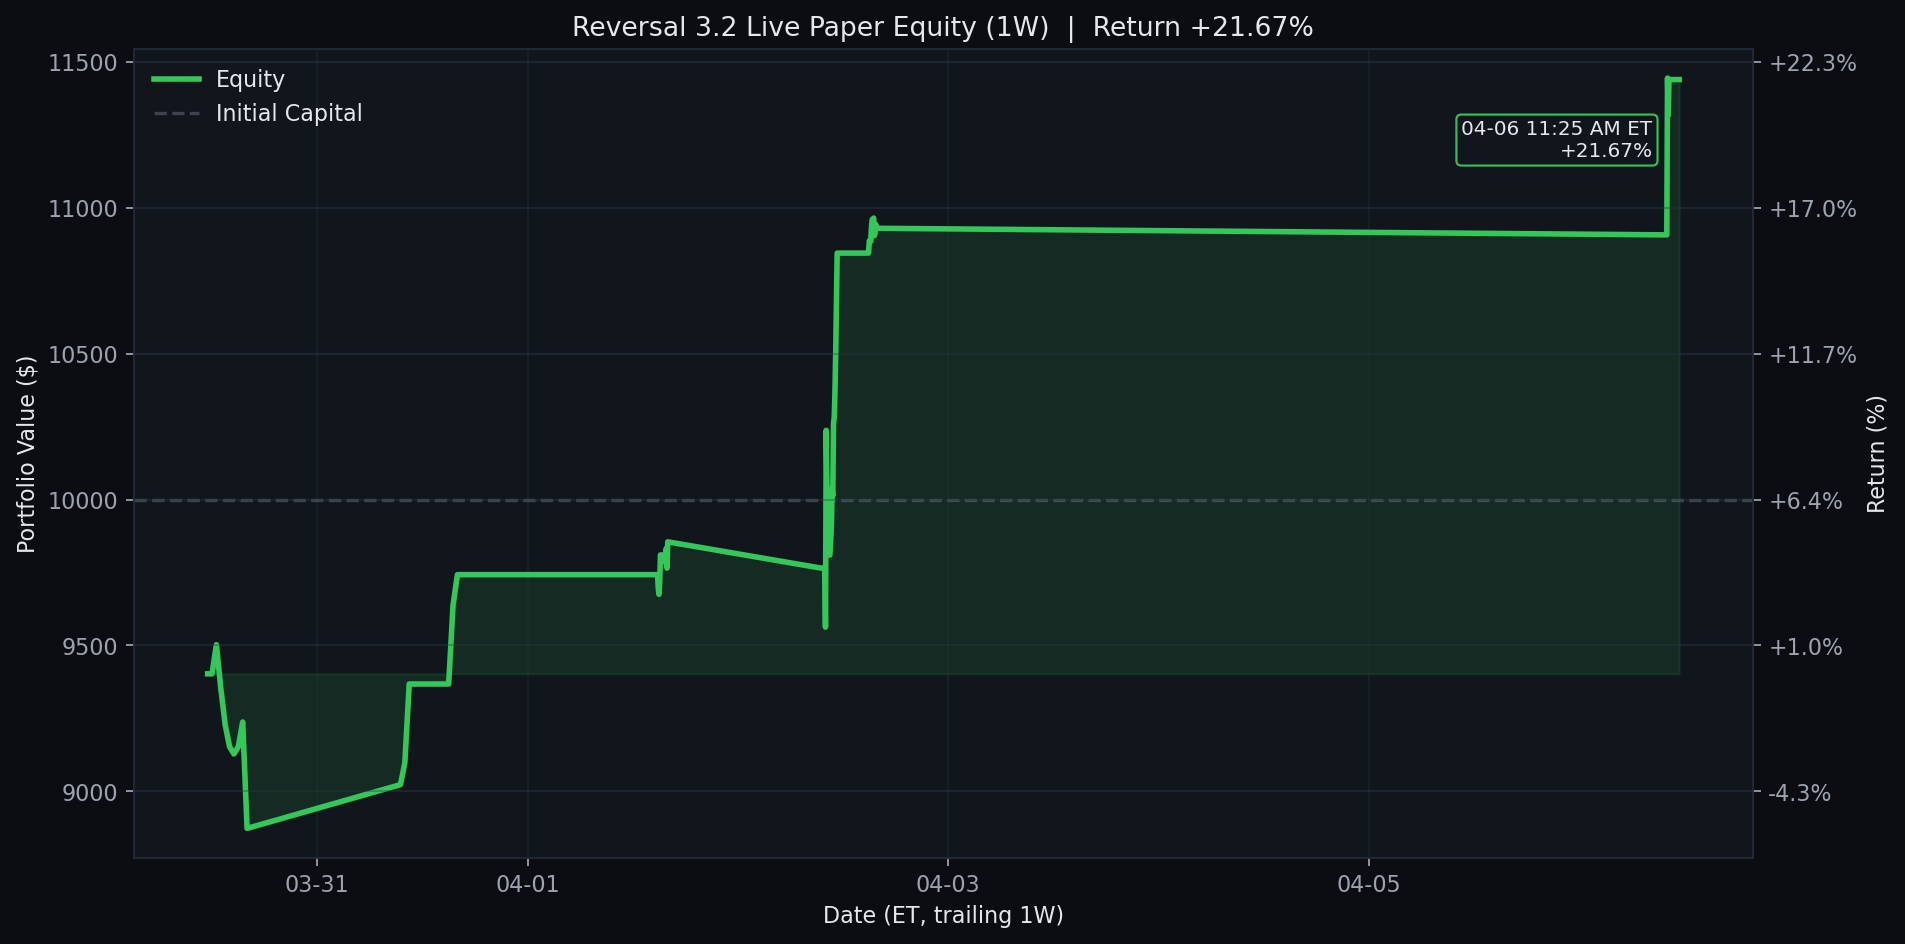
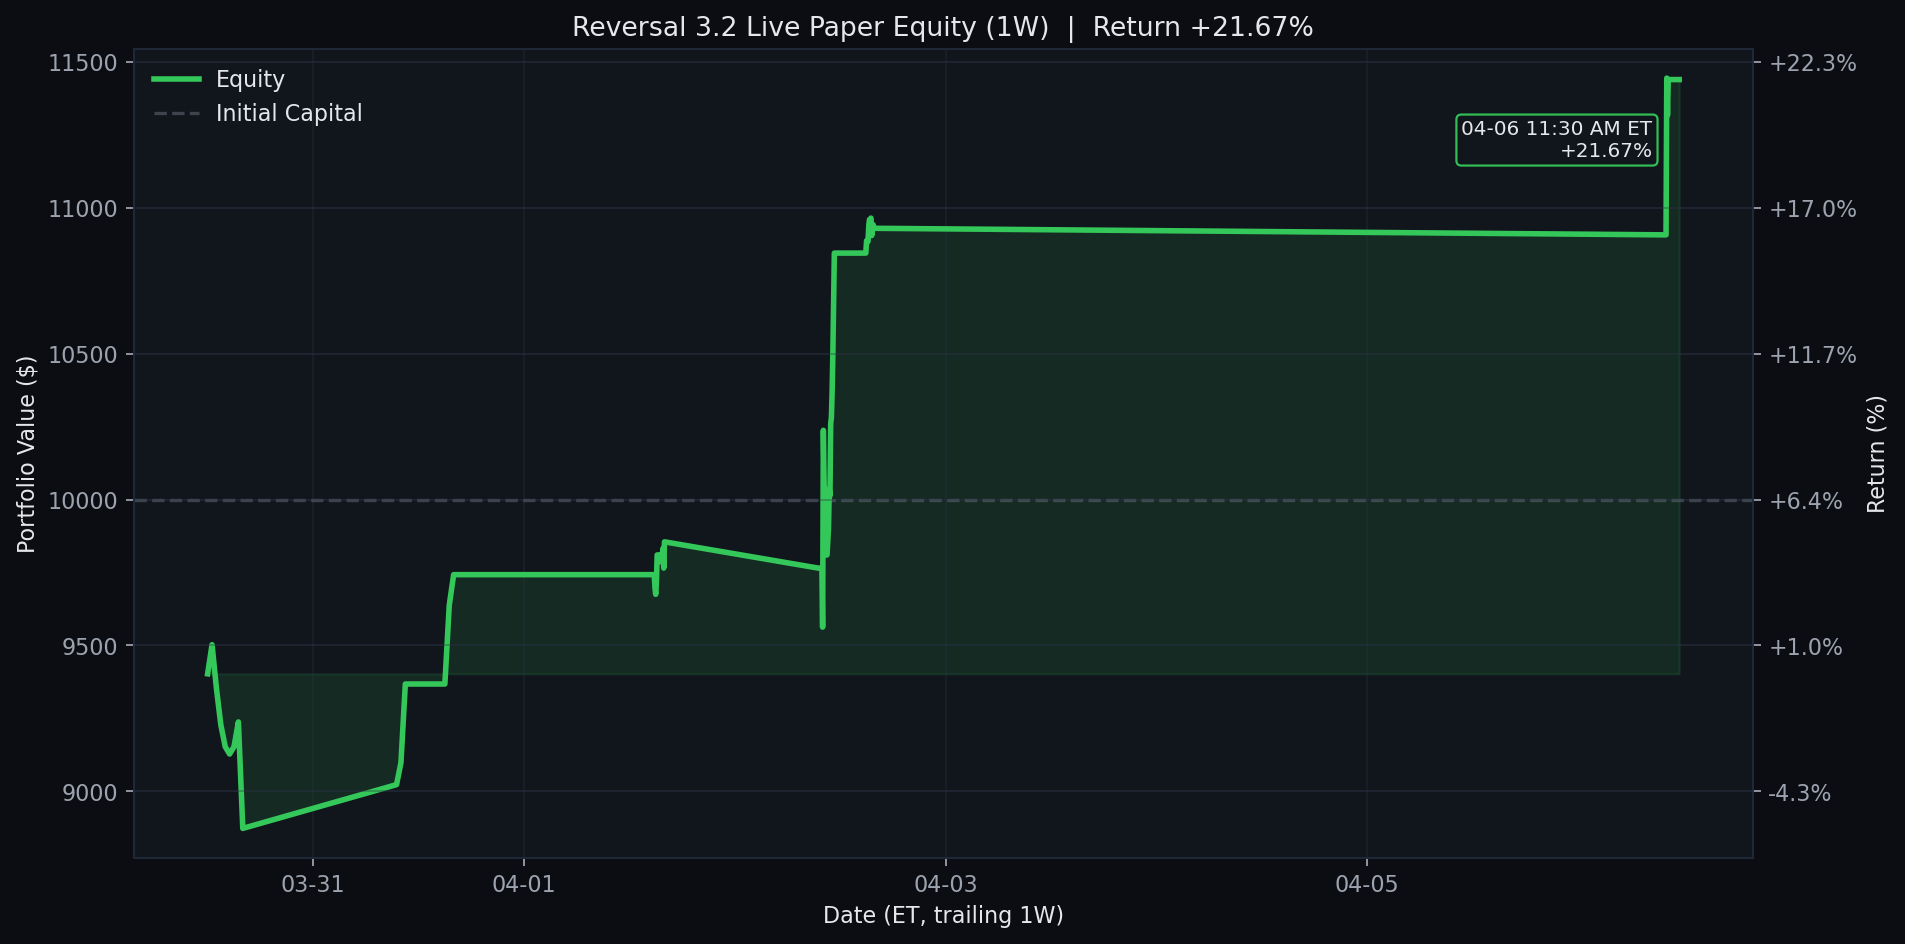
Update Reversal 3.2 live paper test 2026-04-06 11:30 ET

diff --git a/results/reversal_3_2_live/README.md b/results/reversal_3_2_live/README.md
@@ -1,6 +1,6 @@
 # Reversal 3.2 Live Paper Test
 
-Last updated (ET): `2026-04-06 11:25:05 EDT`
+Last updated (ET): `2026-04-06 11:30:05 EDT`
 Last processed slot: `manage_1130`
 
 ## Active Configuration
@@ -40,34 +40,34 @@ ticker    contract_symbol entry_trade_date_et exit_trade_date_et  entry_option_p
 
 ```text
 ticker  success_rate_%  matched_signals  current_drop_%  target_rebound_$  target_price  rolling_sigma_20d_%  call_candidate
-   HON          100.00               22            0.62              1.00        229.02                20.57            True
-  FTNT           93.02               43            0.65              0.38         82.37                30.26            True
-  NVDA           91.89               37            0.50              0.62        177.12                36.70            True
-  FAST           91.43               35            0.60              0.20         46.22                21.85            True
-  CDNS           90.70               43            0.72              1.41        278.12                25.28            True
-  AVGO           89.74               39            0.84              1.86        313.75                41.04            True
-  SNPS           89.13               46            0.56              1.55        395.29                35.67            True
-  TSLA           85.00               20            2.10              5.30        358.32                42.35            True
-   PEP           84.21               19            0.68              0.75        156.69                18.34            True
-  TMUS           84.00               25            0.84              1.18        200.89                22.45            True
-  CTSH           83.87               31            0.94              0.41         62.36                26.11            True
-  ASML           83.33               24            1.54             14.16       1311.16                51.28            True
+   HON          100.00               24            0.57              0.92        229.06                20.57            True
+  FTNT           92.68               41            0.78              0.45         82.34                30.26            True
+  FAST           91.67               36            0.58              0.19         46.22                21.85            True
+  CDNS           90.70               43            0.85              1.65        278.01                25.28            True
+  AVGO           89.74               39            0.64              1.41        313.95                41.04            True
+  SNPS           89.13               46            0.61              1.69        395.22                35.67            True
+  ASML           85.19               27            1.39             12.80       1311.75                51.28            True
+  TSLA           85.00               20            1.99              5.03        358.44                42.35            True
+  TMUS           84.00               25            0.94              1.33        200.83                22.45            True
+  CTSH           83.87               31            0.96              0.42         62.36                26.11            True
+   PEP           83.33               18            0.74              0.82        156.66                18.34            True
+  FANG          100.00               29            0.24              0.32        193.74                28.70           False
 ```
 
 ## Recent Events
 
 ```text
-                    timestamp_et        slot   event_type                                                                                                                                 detail
-2026-04-06T11:25:05.885117-04:00 manage_1130 slot_skipped                                                                                                        {"reason": "already_processed"}
-2026-04-06T11:10:05.890334-04:00 manage_1100 slot_skipped                                                                                                        {"reason": "already_processed"}
-2026-04-06T11:05:06.304097-04:00 manage_1100 slot_skipped                                                                                                        {"reason": "already_processed"}
-2026-04-06T11:00:03.415712-04:00 manage_1100 slot_skipped                                                                                                        {"reason": "already_processed"}
-2026-04-06T10:55:05.885281-04:00 manage_1100 slot_skipped                                                                                                        {"reason": "already_processed"}
-2026-04-06T10:40:05.887120-04:00 manage_1030 slot_skipped                                                                                                        {"reason": "already_processed"}
-2026-04-06T10:35:05.885229-04:00 manage_1030 slot_skipped                                                                                                        {"reason": "already_processed"}
-2026-04-06T10:30:05.886948-04:00 manage_1030 slot_skipped                                                                                                        {"reason": "already_processed"}
-2026-04-06T10:25:05.896716-04:00 manage_1030 slot_skipped                                                                                                        {"reason": "already_processed"}
-2026-04-06T10:20:05.891442-04:00 manage_1030         exit {"contract_symbol": "WDC260501C00295000", "pnl": 595.0, "reason": "take_profit_day1_hit_at_scan", "return_pct": 21.7, "ticker": "WDC"}
+                    timestamp_et        slot   event_type                          detail
+2026-04-06T11:30:05.877701-04:00 manage_1130 slot_skipped {"reason": "already_processed"}
+2026-04-06T11:25:05.885117-04:00 manage_1130 slot_skipped {"reason": "already_processed"}
+2026-04-06T11:10:05.890334-04:00 manage_1100 slot_skipped {"reason": "already_processed"}
+2026-04-06T11:05:06.304097-04:00 manage_1100 slot_skipped {"reason": "already_processed"}
+2026-04-06T11:00:03.415712-04:00 manage_1100 slot_skipped {"reason": "already_processed"}
+2026-04-06T10:55:05.885281-04:00 manage_1100 slot_skipped {"reason": "already_processed"}
+2026-04-06T10:40:05.887120-04:00 manage_1030 slot_skipped {"reason": "already_processed"}
+2026-04-06T10:35:05.885229-04:00 manage_1030 slot_skipped {"reason": "already_processed"}
+2026-04-06T10:30:05.886948-04:00 manage_1030 slot_skipped {"reason": "already_processed"}
+2026-04-06T10:25:05.896716-04:00 manage_1030 slot_skipped {"reason": "already_processed"}
 ```
 
 ## Equity Curves

diff --git a/README.md b/README.md
@@ -3,7 +3,7 @@
 <!-- reversal-3.2-live:start -->
 ## Reversal 3.2 Live Paper Test
 
-- Last updated (ET): `2026-04-06 11:25:05 EDT`
+- Last updated (ET): `2026-04-06 11:30:05 EDT`
 - Equity: `$11,440.00` | Realized: `$1,440.00` | Unrealized: `$0.00` | Open positions: `0`
 - Today closed trades: `1`
 - Current slot: `manage_1130`
